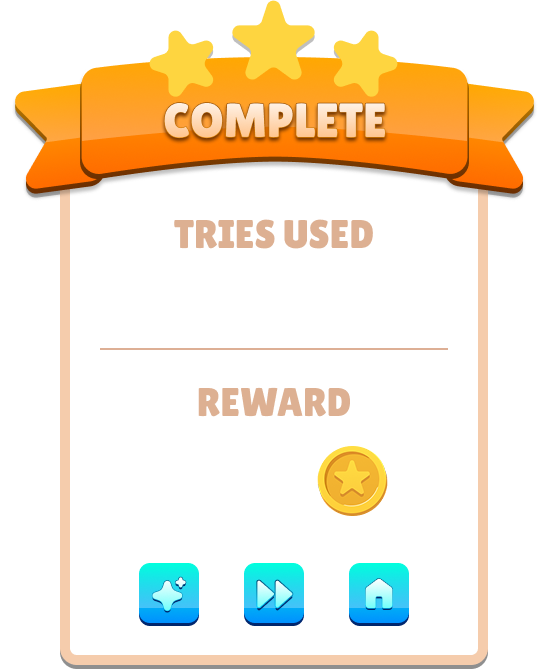
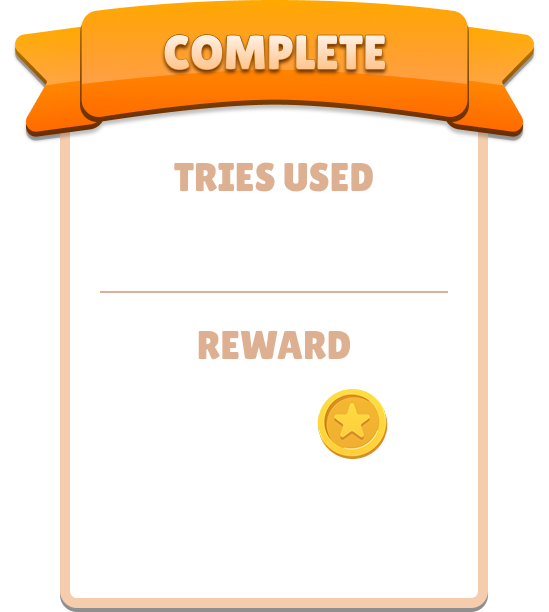
Changed the rewards component and styling of both rewards page and game page

diff --git a/backend/routes/openairoutes.js b/backend/routes/openairoutes.js
@@ -8,12 +8,18 @@ require('dotenv').config();
 const openai = new OpenAI({ apiKey: process.env.OPENAI_API_KEY });
 const SYSTEM_PROMPT = `You are an educational assistant for a Wordle game designed for kids. Your answers should be kid-friendly, engaging, and educational. Always provide clear, concise responses.`;
 
+const RECENT_WORDS_LIMIT = 50; // + Limit for recent words
+
 router.post('/start', async (req, res) => {
   try {
     const blocklist = ['death', 'crime', 'blood', 'ghost', 'scary'];
     const wordLength = Math.random() < 0.5 ? 4 : 5;
 
-    const prompt = `Generate a ${wordLength}-letter English word suitable for kids aged 8-13, avoiding words in this blocklist: ${blocklist.join(', ')}. Return exactly in this format:\nWord: [WORD]\nDo not include extra text.`;
+    // + Fetch recent words from Firestore
+    const recentWordsSnapshot = await db.collection('recentWords').orderBy('createdAt', 'desc').limit(RECENT_WORDS_LIMIT).get();
+    const recentWords = recentWordsSnapshot.docs.map(doc => doc.data().word.toUpperCase());
+
+    const prompt = `Generate a ${wordLength}-letter English word suitable for kids aged 8-13, avoiding words in this blocklist: ${blocklist.join(', ')}. Ensure the word is different from these recently used words: ${recentWords.join(', ') || 'none'}. Return exactly in this format:\nWord: [WORD]\nDo not include extra text.`;
     const response = await openai.chat.completions.create({
       model: 'gpt-4o',
       messages: [
@@ -40,6 +46,18 @@ router.post('/start', async (req, res) => {
       status: 'active',
       createdAt: admin.firestore.FieldValue.serverTimestamp()
     });
+
+    // + Store word in recentWords collection
+    await db.collection('recentWords').add({
+      word,
+      createdAt: admin.firestore.FieldValue.serverTimestamp()
+    });
+
+    // + Maintain recentWords limit
+    if (recentWordsSnapshot.size >= RECENT_WORDS_LIMIT) {
+      const oldestWord = recentWordsSnapshot.docs[recentWordsSnapshot.size - 1];
+      await db.collection('recentWords').doc(oldestWord.id).delete();
+    }
 
     res.json({ gameId, wordLength });
   } catch (err) {

diff --git a/frontend/src/pages/RewardsPage.css b/frontend/src/pages/RewardsPage.css
@@ -37,47 +37,43 @@
   height: auto;
 }
 
-.all-buttons {
-  display: flex;
-  flex-direction: row;
-  align-items: space-between;
-  justify-content: center;
-  width: 100%;
-}
 
 .home-button {
   position: absolute;
-  width: 55px;
-  height: 57px;
+  width: 62px;
+  height: 60px;
   cursor: pointer;
-  right: 524px;
-  top: 570px;
-  border: none;
+  right: 525px;
+  top: 555px;
   background-color: transparent;
+}
+
+.home-button, .flip-button, .star-button {
+  position: absolute;
+  width: 62px;
+  height: 60px;
+  cursor: pointer;
+  border: none;
+  top: 555px;
+  background-color: transparent;
+}
+
+.home-button img, .flip-button img, .star-button img {
+  width: 100%;
+  height: auto;
 }
 
 .flip-button {
-  position: absolute;
-  width: 55px;
-  height: 58px;
-  cursor: pointer;
   right: 608px;
-  top: 570px;
-  border: none;
-  background-color: transparent;
 }
-
 
 
 .star-button {
-  position: absolute;
-  width: 55px;
-  height: 57px;
-  cursor: pointer;
   right: 692px;
-  top: 569px;
-  border: none;
-  background-color: transparent;
 }
 
 
+.star-button:hover img, .home-button:hover img, .flip-button:hover img {
+    transform: scale(1.05); /* + Slightly enlarge on hover */
+    transition: transform 0.2s ease-in-out;
+}

diff --git a/frontend/src/pages/RewardsPage.jsx b/frontend/src/pages/RewardsPage.jsx
@@ -19,9 +19,15 @@ function RewardsPage() {
         <div className="rewards-component">
           <img src="/rewards.png" alt="rewards" className="rewards-image" />
         </div>
-        <button className="home-button"></button>
-        <button className="star-button"></button>
-        <button className="flip-button"></button>
+        <button className="home-button">
+          <img src="/home-image.png" alt="home" className="home-image"/>
+        </button>
+        <button className="star-button">
+          <img src="/star-image.png" alt="star" className="start-image"/>
+        </button>
+        <button className="flip-button">
+          <img src="flip-image.png" alt="flip" className="flip-image"/>
+        </button>
       </div>
     </div>
   );

diff --git a/frontend/src/pages/GamePage.jsx b/frontend/src/pages/GamePage.jsx
@@ -42,7 +42,13 @@ function GamePage({ onKeyPress, keyStatuses, resetKeyStatuses, gameId, setGameId
     navigate('/');
   };
 
-  if (!isGameReady) return null;
+  if (!isGameReady) {
+    return (
+      <div className="loading-container">
+        <h1 className="loading-text">Game Loading...</h1>
+      </div>
+      );
+  };
 
   // Parse explanation into definition and example
   const [definition, example] = explanation ? explanation.split('\n') : ['', ''];

diff --git a/frontend/src/pages/GamePage.css b/frontend/src/pages/GamePage.css
@@ -10,7 +10,22 @@
 }
 
 
+/* + New styles for loading container */
+.loading-container {
+     display: flex;
+     justify-content: center;
+     align-items: center;
+     height: 100vh;
+     width: 100%;
+}
 
+/* + New styles for loading text */
+.loading-text {
+     font-size: 36px;
+     font-weight: bold;
+     color: white;
+     font-family: "Press Start 2P";
+}
 
 .game-page-header {
   margin-bottom: 400px; /* Space for the grid and keyboard */
